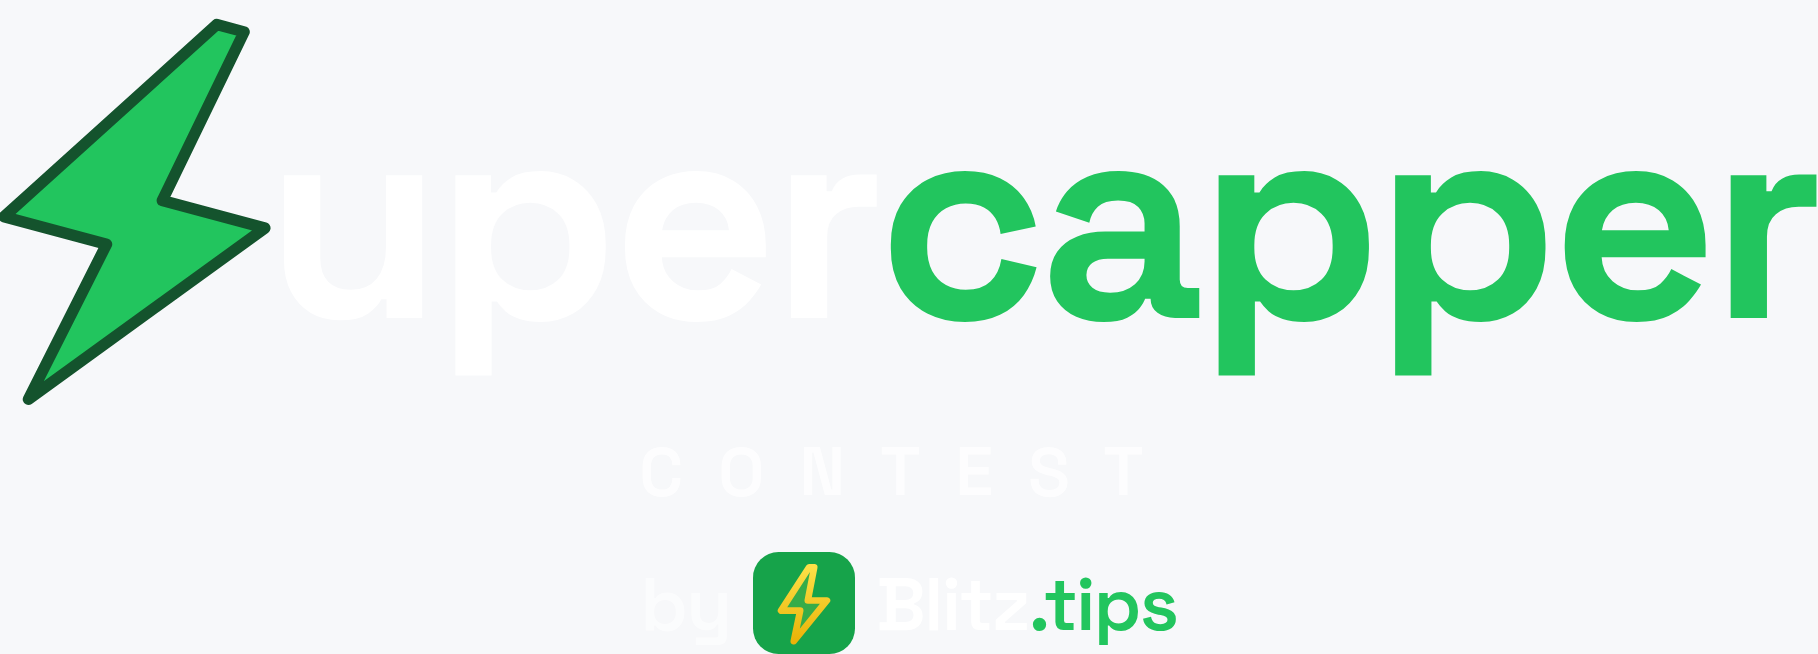
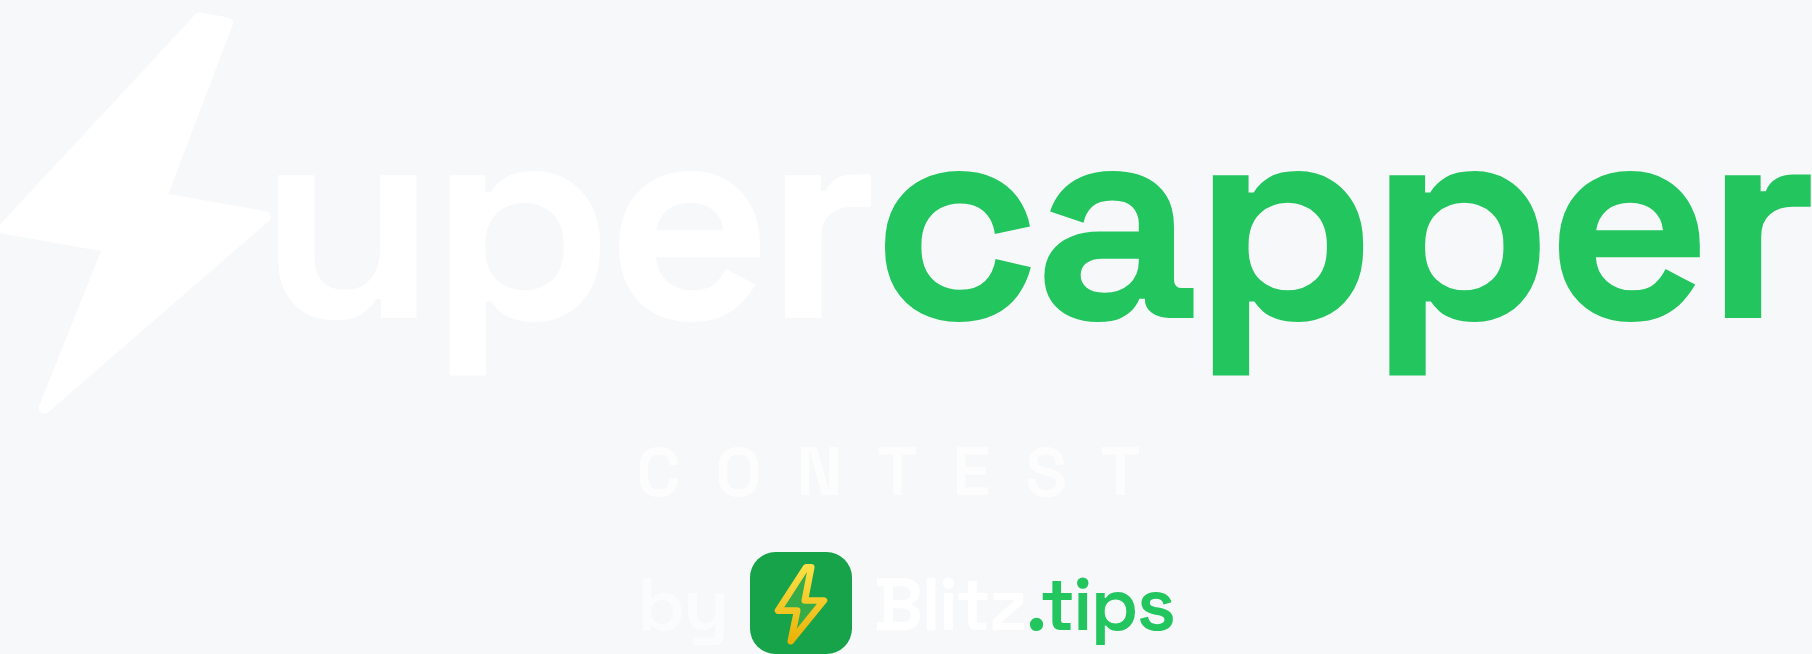
Black bolt at 10°, green kept for "capper"
Eases the tilt from 15° to 10° and moves the bolt out of the green half of
the mark: fill and stroke are both currentColor now, so the bolt and
"uper" share whatever text color surrounds them — black on light, white
reversed — and "capper" is the only green.

That also means the reversed lockup needs no special handling for the
bolt; it inverts with the text.

Re-exported the four public/ lockup PNGs.

Claude-Session: https://claude.ai/code/session_016YpNsra3VmRDhQw8QQMKUK

diff --git a/src/components/contest/supercapper-logo.tsx b/src/components/contest/supercapper-logo.tsx
@@ -2,10 +2,11 @@ import Image from "next/image";
 import { cn } from "@/lib/utils";
 
 // The Supercapper wordmark: the leading "S" is a thunder bolt, followed by
-// "upercapper" in the display font. Two colors only — the bolt and "capper"
-// share the brand green, "uper" and the byline stay neutral. Pass `onDark` on a
-// dark surface: the accent green is tuned for contrast on white and goes muddy
-// on charcoal, so it steps up to green-500 there.
+// "upercapper" in the display font. Two colors only — the bolt and "uper" take
+// the surrounding text color (black on light, white reversed), and "capper"
+// carries the brand green. Pass `onDark` on a dark surface: the accent green is
+// tuned for contrast on white and goes muddy on charcoal, so it steps up to
+// green-500 there.
 // A sub-line can sit beneath: `withContest` for "contest", `withByline` for
 // "by Blitz.tips" — the attribution lockup, for anywhere the contest appears
 // away from the site's own chrome (social, email, partner placements). Both
@@ -38,23 +39,22 @@ export function SupercapperLogo({
       aria-label={label}
     >
       <span className="inline-flex items-center font-display font-extrabold tracking-tight">
-        {/* viewBox cropped tight to the bolt's bounds (no transparent padding)
-            so it can sit flush against the "u". */}
-        {/* Tilted 15° so the bolt reads as a strike rather than a static glyph.
-            The rotation widens its footprint, hence the smaller negative margin
-            than an upright bolt would need to sit against the "u". */}
+        {/* viewBox is cropped tight to the bolt's bounds (no transparent
+            padding) so it can sit flush against the "u". Tilted 10° so it reads
+            as a strike rather than a static glyph; the rotation widens its
+            footprint, hence the smaller negative margin than an upright bolt.
+            Fill and stroke are both currentColor, so the bolt belongs to the
+            neutral half of the mark — black on light, white reversed. */}
         <svg
           viewBox="10.5 5.5 19 30.5"
-          className={cn("-mr-[0.02em] h-[1.5em] w-[0.94em] rotate-[15deg]", accent)}
+          className="-mr-[0.04em] h-[1.5em] w-[0.94em] rotate-[10deg]"
           fill="none"
           aria-hidden
         >
-          {/* stroke is green-900: keeps the bolt's edge readable against both
-              the word and a dark surface, without a third brand color. */}
           <path
             d="M22 6 L11 23 H18.5 L16 35 L29 19 H21.5 L24 6 Z"
             fill="currentColor"
-            stroke="#14532d"
+            stroke="currentColor"
             strokeWidth="0.8"
             strokeLinejoin="round"
           />
